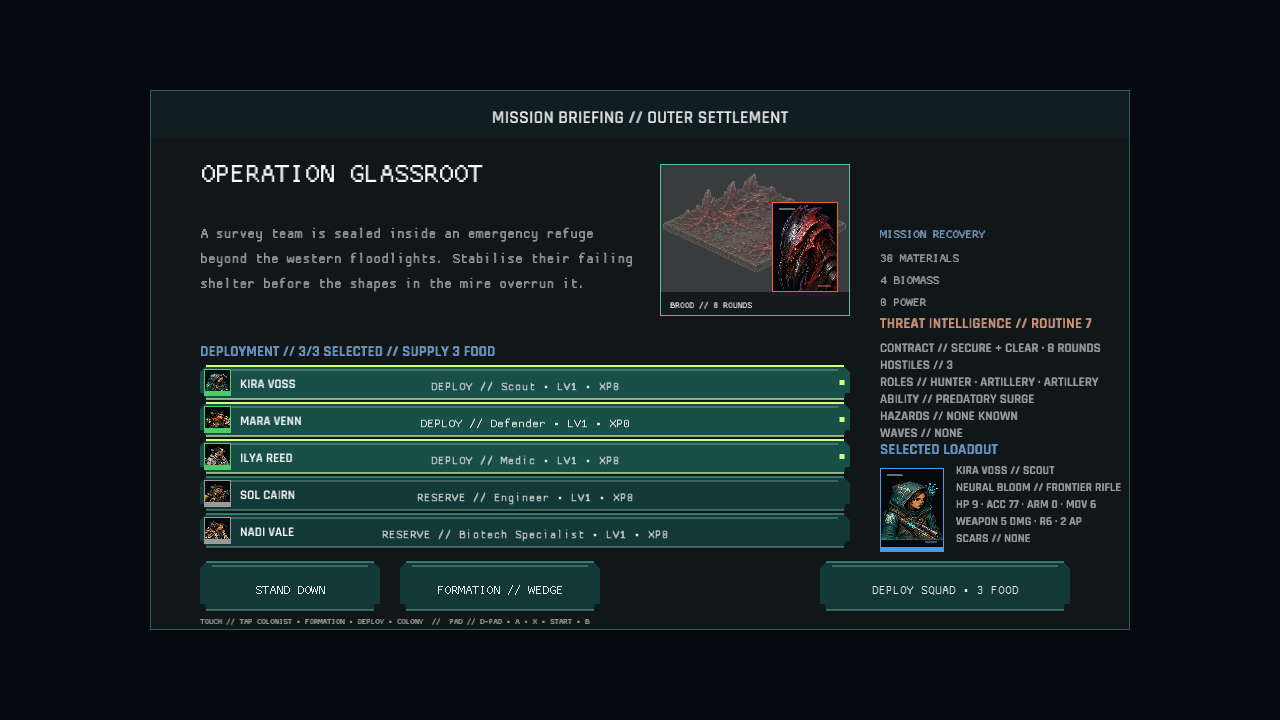
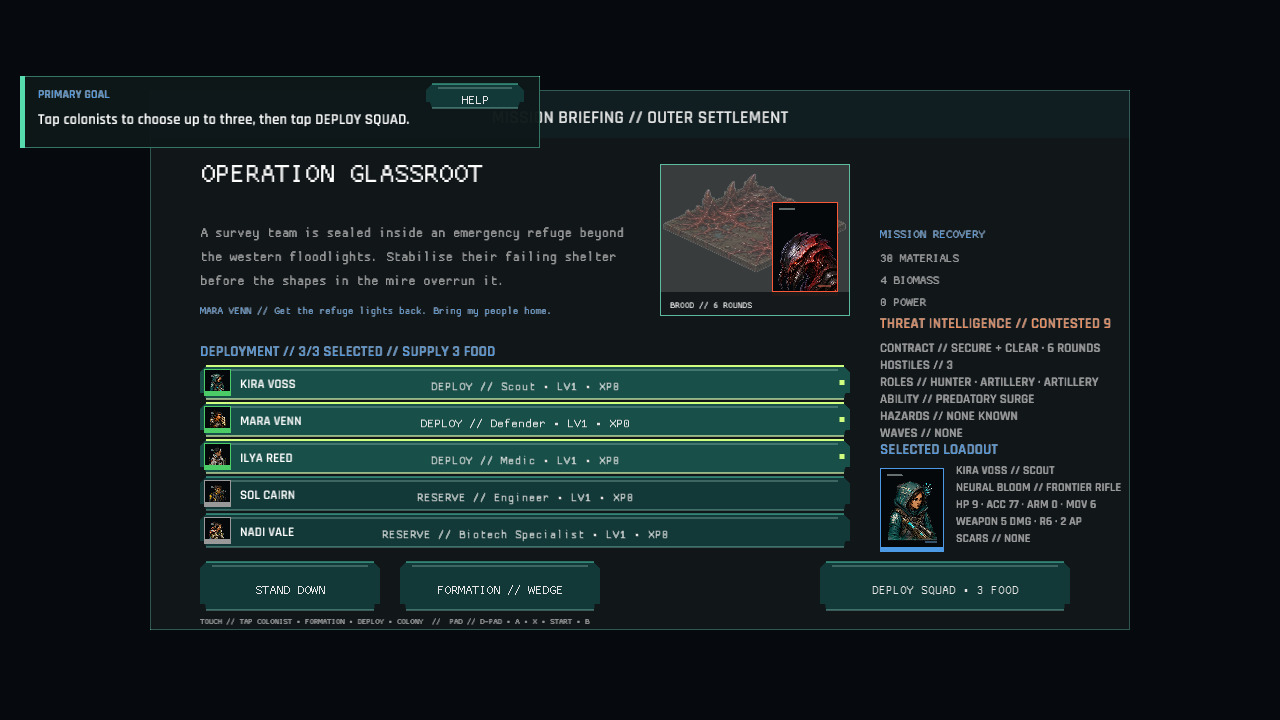
Old hands keep their roads while new squads hear named voices (Phase 1 migration inference and first-hour presentation)
The 1.64 field defaults were safe for brand-new saves but too literal for established campaigns: any older campaign would restart at Arrival. The briefing prompt also still described opening the operations drawer after the player had already reached briefing.

Infer arrival, investment, or completed guidance from resolved-operation count during migration, and keep advanced construction deferred only for a genuine first-hour path. Add a dedicated first-briefing goal, Mara briefing line, and outcome-sensitive Ilya debrief line so the opening contract and return are carried by named colonists.

Refresh the canonical briefing and debrief captures around those authored states. A second migration fixture protects established campaigns from tutorial regression.

Verified with 235 unit tests, asset and source-size gates, visual inspection of both refreshed captures, and the full parameterless native/WebGL publisher.

diff --git a/src/first_hour.rs b/src/first_hour.rs
@@ -8,6 +8,7 @@ pub(crate) enum FirstHourStage {
     Arrival,
     MeetCoordinator,
     PrepareFirstOperation,
+    FirstBriefing,
     FirstOperation,
     FirstReturn,
     MakeInvestment,
@@ -85,6 +86,9 @@ impl FirstHourProgress {
             FirstHourStage::PrepareFirstOperation => {
                 "Tap OPERATIONS, inspect GLASSROOT, then tap BRIEF SELECTED MISSION."
             }
+            FirstHourStage::FirstBriefing => {
+                "Tap colonists to choose up to three, then tap DEPLOY SQUAD."
+            }
             FirstHourStage::FirstOperation => lesson_prompt(self.lesson),
             FirstHourStage::FirstReturn => {
                 "Tap RETURN TO COLONY, then speak with the highlighted colonist."
@@ -139,6 +143,12 @@ impl FirstHourProgress {
         } else if operations_completed == 1 {
             self.stage = FirstHourStage::SecondOperation;
             self.lesson = TacticalLesson::ApplyLearning;
+        }
+    }
+
+    pub(crate) fn opened_briefing(&mut self, operations_completed: u32) {
+        if operations_completed == 0 && self.stage == FirstHourStage::PrepareFirstOperation {
+            self.stage = FirstHourStage::FirstBriefing;
         }
     }
 
@@ -225,6 +235,17 @@ impl FirstHourProgress {
             1 => FirstHourStage::MakeInvestment,
             _ => FirstHourStage::Complete,
         };
+    }
+
+    pub(crate) fn migrate_from_operations(&mut self, operations_completed: u32) {
+        self.stage = match operations_completed {
+            0 => FirstHourStage::Arrival,
+            1 => FirstHourStage::MakeInvestment,
+            _ => FirstHourStage::Complete,
+        };
+        if self.stage == FirstHourStage::Complete {
+            self.guidance_enabled = false;
+        }
     }
 
     fn advance_lesson(&mut self, expected: TacticalLesson, next: TacticalLesson) {

diff --git a/src/persistence/tests/first_hour.rs b/src/persistence/tests/first_hour.rs
@@ -20,3 +20,22 @@ fn previous_save_without_first_hour_fields_gains_safe_guidance() {
     assert_eq!(migrated.campaign.first_hour, FirstHourProgress::default());
     assert_eq!(migrated.campaign.first_hour.stage, FirstHourStage::Arrival);
 }
+
+#[test]
+fn established_previous_campaign_does_not_restart_the_arrival_guide() {
+    let data = GameData::load().unwrap();
+    let mut campaign = CampaignState::new(&data);
+    campaign.operations_completed = 5;
+    let save = SaveData::campaign_only("1.63.0", &campaign);
+    let mut value = serde_json::to_value(save).unwrap();
+    value
+        .get_mut("campaign")
+        .and_then(serde_json::Value::as_object_mut)
+        .unwrap()
+        .remove("first_hour");
+
+    let migrated = migrate_save_value(Some("1.63.0".to_owned()), value, &data).unwrap();
+
+    assert_eq!(migrated.campaign.first_hour.stage, FirstHourStage::Complete);
+    assert!(!migrated.campaign.first_hour.guidance_enabled);
+}

diff --git a/src/game/capture_scenes.rs b/src/game/capture_scenes.rs
@@ -136,7 +136,10 @@ impl Game {
             "relationships" => self.capture_relationships(AppState::Roster),
             "trauma" => self.capture_trauma(),
             "bonded_briefing" => self.capture_relationships(AppState::MissionBriefing),
-            "briefing" => self.state = AppState::MissionBriefing,
+            "briefing" => {
+                self.campaign.first_hour.stage = crate::first_hour::FirstHourStage::FirstBriefing;
+                self.state = AppState::MissionBriefing;
+            }
             "threat_briefing" => {
                 self.capture_template_operation(
                     "sporefield_extraction",

diff --git a/src/colony_map_ui/controls.rs b/src/colony_map_ui/controls.rs
@@ -88,13 +88,15 @@ pub(super) fn draw_exploration_controls(
     ) {
         explorer.interact(campaign);
     }
-    if button(
-        Rect::new(332.0, 654.0, 150.0, 42.0),
-        "BUILD MODE",
-        true,
-        mouse,
-    ) {
-        explorer.set_build_mode(true);
-        actions.clear();
+    if campaign.first_hour.stage == crate::first_hour::FirstHourStage::Complete {
+        if button(
+            Rect::new(332.0, 654.0, 150.0, 42.0),
+            "BUILD MODE",
+            true,
+            mouse,
+        ) {
+            explorer.set_build_mode(true);
+            actions.clear();
+        }
     }
 }

diff --git a/src/ui_debrief.rs b/src/ui_debrief.rs
@@ -69,6 +69,19 @@ pub fn draw_debrief(
             dark::ACCENT,
         );
     }
+    if campaign.operations_completed <= 2 {
+        draw_text(
+            if won {
+                "ILYA REED // Account for everyone before Mara spends the recovery."
+            } else {
+                "ILYA REED // Failure is a condition. We treat it, then move."
+            },
+            200.0,
+            214.0,
+            14.0,
+            dark::ACCENT,
+        );
+    }
     let injuries = if outcome.colonists_incapacitated.is_empty() {
         "No squad incapacitations".to_owned()
     } else {

diff --git a/src/game/capture_debrief.rs b/src/game/capture_debrief.rs
@@ -14,6 +14,7 @@ impl Game {
             }
         }
         self.last_outcome = self.session.mission_outcome(&self.active_mission);
+        self.campaign.first_hour.stage = crate::first_hour::FirstHourStage::FirstReturn;
         self.state = AppState::Debrief;
     }
 
@@ -27,6 +28,7 @@ impl Game {
             }
         }
         self.last_outcome = self.session.mission_outcome(&self.active_mission);
+        self.campaign.first_hour.stage = crate::first_hour::FirstHourStage::FirstReturn;
         self.state = AppState::Debrief;
     }
 }

diff --git a/src/game/first_hour_flow.rs b/src/game/first_hour_flow.rs
@@ -6,7 +6,10 @@ use macroquad_toolkit::ui::VirtualUi;
 
 impl Game {
     pub(super) fn draw_first_hour(&self, ui: &VirtualUi, actions: &mut Vec<UiAction>) {
-        if self.state != AppState::Title {
+        if self.state != AppState::Title
+            && !(self.campaign.first_hour.stage == crate::first_hour::FirstHourStage::Complete
+                && self.state != AppState::Colony)
+        {
             crate::first_hour_ui::draw(
                 &self.campaign.first_hour,
                 ui::pointer_position(ui),

diff --git a/src/ui.rs b/src/ui.rs
@@ -180,6 +180,14 @@ pub fn draw_mission_briefing(
         7.0,
         dark::TEXT_DIM,
     );
+    if campaign.operations_completed == 0 {
+        draw_ui_text_ex(
+            "MARA VENN // Get the refuge lights back. Bring my people home.",
+            200.0,
+            314.0,
+            TextStyle::new(13.0, dark::ACCENT).params(),
+        );
+    }
     draw_mission_vignette(data, mission, assets, visuals);
     if mission.operation_modifier != crate::data::OperationModifier::None {
         draw_ui_text_ex(

diff --git a/src/persistence.rs b/src/persistence.rs
@@ -127,6 +127,9 @@ pub fn migrate_save_value(
             .unwrap_or_default();
     }
     if detected_version.as_deref() != Some(data.config.version.as_str()) {
+        save.campaign
+            .first_hour
+            .migrate_from_operations(save.campaign.operations_completed);
         if let Some(tactical) = &mut save.tactical {
             for unit in &mut tactical.units {
                 if unit.faction.is_none() {

diff --git a/src/game.rs b/src/game.rs
@@ -328,6 +328,9 @@ impl Game {
                 self.autosave_campaign_only("New colony autosaved");
             }
             UiAction::OpenMissionBriefing => {
+                self.campaign
+                    .first_hour
+                    .opened_briefing(self.campaign.operations_completed);
                 self.active_mission = self
                     .campaign
                     .strategy

diff --git a/TECHNICAL_DESIGN.md b/TECHNICAL_DESIGN.md
@@ -651,7 +651,7 @@ Migration coverage:
 | 1.54.0 | No new fields; shot tracers and cover breakdown derive from validated attacks |
 | 1.55.0 | No new fields; threat envelopes derive from current hostile range and line of fire |
 | 1.56.0 | No new fields; danger reach derives from one validated move and remaining attack AP |
-| 1.64.0 | Persistent first-hour stage, tactical lesson, outcomes, investment, and guide settings; 1.63 saves default safely from campaign progress |
+| 1.64.0 | Persistent first-hour stage, tactical lesson, outcomes, investment, and guide settings; 1.63 saves infer arrival, investment, or completion from resolved operations |
 
 Every future schema bump must migrate the immediately previous version and add a
 fixture test. Validate saved content IDs before adding content removal or renaming.

diff --git a/docs/PHASE_1_HARDENING.md b/docs/PHASE_1_HARDENING.md
@@ -30,7 +30,7 @@ Status: automated and internal verification complete; external playtests pending
 
 ## Automated verification baseline
 
-- 234 Mirexis unit tests pass.
+- 235 Mirexis unit tests pass.
 - External asset-registry and Rust source-size gates pass.
 - `publish.ps1` passes without parameters for Windows and WebGL and deploys to preview.
 - Canonical title and colony captures were refreshed after the new controls.
